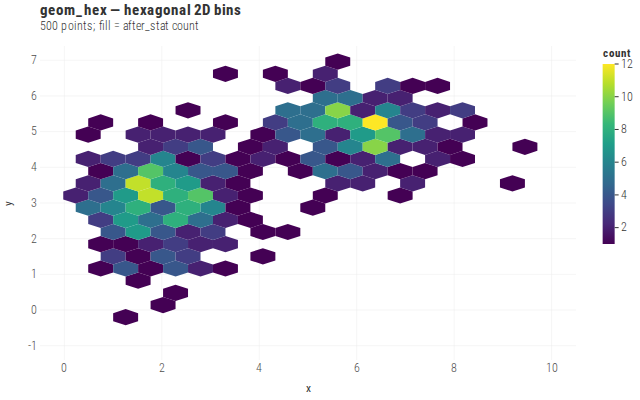
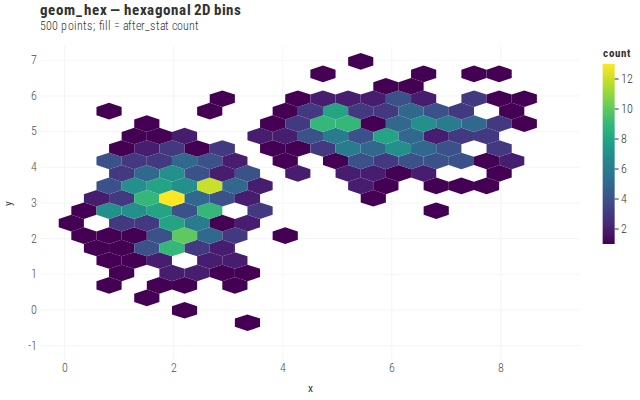
fix(geom): hex hover rows, after_stat outline color, CI gates
Attach closedFrameRows so tooltips resolve the hovered hex cell; resolve
color after_stat columns like fill; use mulberry32 for the example RNG;
teach MockResponder geom_hex (dry-run pass rate); bump gallery count and
recapture hex preview.

diff --git a/packages/core/tests/pipeline-geometry/geom-hex.test.ts b/packages/core/tests/pipeline-geometry/geom-hex.test.ts
@@ -101,6 +101,60 @@ describe("geom_hex geometry (#800)", () => {
     expect(denseN).toBeGreaterThanOrEqual(sparseN);
   });
 
+  it("attaches closedFrameRows so each hex vertex maps to its cell row", () => {
+    const model = runPipeline(
+      gg(
+        {
+          x: [0.1, 0.2, 0.8, 0.9, 0.5],
+          y: [0.1, 0.15, 0.8, 0.9, 0.5],
+        },
+        aes({ x: "x", y: "y" }),
+      )
+        .geomHex({ bins: 6 })
+        .spec(),
+      size,
+    );
+    const batch = model.scene.batches.find((b) => b.kind === "paths");
+    expect(batch?.kind).toBe("paths");
+    expect(batch!.closed).toBe(true);
+    expect(batch!.closedFrameRows).toBeDefined();
+    expect(batch!.closedFrameRows!.length).toBe(batch!.positions.length / 2);
+    const nHex = batch!.pathOffsets.length - 1;
+    expect(nHex).toBeGreaterThan(1);
+    // First vertex of subpath 0 and subpath 1 must resolve to different cells.
+    const row0 = batch!.closedFrameRows![batch!.pathOffsets[0]!]!;
+    const row1 = batch!.closedFrameRows![batch!.pathOffsets[1]!]!;
+    expect(row0).not.toBe(row1);
+    // All six vertices of a hex share that cell's frame row.
+    for (let v = 0; v < 6; v++) {
+      expect(batch!.closedFrameRows![batch!.pathOffsets[0]! + v]).toBe(row0);
+    }
+  });
+
+  it("resolves after_stat color (outline) from count like fill", () => {
+    const model = runPipeline(
+      gg(
+        {
+          x: [0.1, 0.15, 0.8, 0.85, 0.5],
+          y: [0.1, 0.2, 0.75, 0.9, 0.5],
+        },
+        aes({ x: "x", y: "y", color: { stat: "count" }, fill: { stat: "count" } }),
+      )
+        .geomHex({ bins: 5, linewidth: 1 })
+        .spec(),
+      size,
+    );
+    expect(model.warnings.filter((w) => w.code === "stat-channel-unsupported")).toEqual([]);
+    const batch = model.scene.batches.find((b) => b.kind === "paths");
+    expect(batch?.kind).toBe("paths");
+    const nHex = batch!.pathOffsets.length - 1;
+    expect(nHex).toBeGreaterThan(0);
+    expect(batch!.strokes).toBeDefined();
+    expect(batch!.strokes!.length).toBe(nHex);
+    // At least one hex should get a non-null stroke from the count scale.
+    expect(batch!.strokes!.some((s) => s !== null && s !== undefined)).toBe(true);
+  });
+
   it("maps alpha/linewidth to kept subpaths when some hexes drop", () => {
     // Three candidate cells; middle center is non-finite so only rows 0 and 2 emit.
     const frame = fromAny<LayerFrame>({

diff --git a/packages/core/tests/pipeline-after-stat-color.test.ts b/packages/core/tests/pipeline-after-stat-color.test.ts
@@ -1,10 +1,11 @@
 /**
  * after_stat color/fill diagnostics (#915).
  *
- * Only density_2d / density_2d_filled wire an after_stat column into
- * color/fill (`frame-stats-density-2d.ts` — every other frame builds
- * color/fill from the mapped *field* alone). Elsewhere an `{ stat }` colour
- * mapping was accepted and then silently dropped, with no diagnostic.
+ * density_2d / density_2d_filled and bin_hex resolve after_stat colour into
+ * frame color/fill values. Every other frame builds colour from the mapped
+ * *field* alone; an `{ stat }` colour mapping there is accepted only when the
+ * stat publishes the column, then dropped without a painted value — so those
+ * stats emit `stat-channel-unsupported` when the column is not published.
  */
 import { describe, expect, it } from "bun:test";
 import { aes, gg } from "@ggsvelte/spec";
@@ -66,6 +67,16 @@ describe("after_stat color/fill (#915)", () => {
     const model = runPipeline(
       gg(cloud(60), aes({ x: "x", y: "y", color: { stat: "level" } }))
         .geomDensity2d({ n: 20, bins: 4 })
+        .spec(),
+      size,
+    );
+    expect(statChannelWarnings(model.warnings)).toEqual([]);
+  });
+
+  it("stays silent for geom_hex color/fill = after_stat(count)", () => {
+    const model = runPipeline(
+      gg(cloud(40), aes({ x: "x", y: "y", color: { stat: "count" }, fill: { stat: "count" } }))
+        .geomHex({ bins: 8 })
         .spec(),
       size,
     );

diff --git a/tests/evals/model.ts b/tests/evals/model.ts
@@ -626,6 +626,39 @@ export class MockResponder implements Responder {
       const aes: MockAes = { x: f(x), y: f(y), fill: f(fill) };
       spec.layers.push({ geom: "raster", aes });
       xField = x;
+    } else if (
+      // geom_hex / hexagonal bin heatmap — must win over bare "heatmap" → tile (#800).
+      /\bhex(?:agon(?:al)?)?(?:\s+bin)?\b|\bgeom[_\s]?hex\b|\bbin_hex\b/.test(prompt)
+    ) {
+      const x =
+        fieldNamed("distance") ??
+        fieldNamed("humidity") ??
+        fieldNamed("x") ??
+        pick.mentionedQuant() ??
+        pick.quant() ??
+        "x";
+      const y =
+        fieldNamed("delay") ??
+        fieldNamed("temperature") ??
+        fieldNamed("y") ??
+        pick.mentionedQuant() ??
+        pick.quant() ??
+        "y";
+      const aes: MockAes = {
+        x: f(x),
+        y: f(y),
+        fill: { stat: "count" },
+      };
+      const layer: MockLayer = {
+        geom: "hex",
+        stat: "bin_hex",
+        position: "identity",
+        aes,
+      };
+      const binsMatch = prompt.match(/\b(\d+)\s*bins?\b/);
+      if (binsMatch !== null) layer.params = { bins: Number(binsMatch[1]) };
+      spec.layers.push(layer);
+      xField = x;
     } else if (/\b(?:geom )?tiles?\b|heatmap/.test(prompt)) {
       const cats = profile.fields.filter(
         (field) => field.type === "nominal" || field.type === "ordinal",

diff --git a/packages/core/src/pipeline/geometry-hex.ts b/packages/core/src/pipeline/geometry-hex.ts
@@ -44,6 +44,9 @@ export function hexBatch(
   const totalVerts = n * 6;
   const positions = new Float32Array(totalVerts * 2);
   const rowIndex = new Uint32Array(totalVerts);
+  // One frame-row id per vertex so hover/tooltip maps each hex to its cell,
+  // not the ribbon/band reconstruction fallback (same as polygonBatch; #916).
+  const closedFrameRows = new Uint32Array(totalVerts);
   const pathOffsets = new Uint32Array(n + 1);
   const keptRows = new Uint32Array(n);
   const fills: (string | null)[] = [];
@@ -82,6 +85,7 @@ export function hexBatch(
       positions[cursor * 2] = tx * fx.innerWidth;
       positions[cursor * 2 + 1] = fx.innerHeight - ty * fx.innerHeight;
       rowIndex[cursor] = frame.rowIndex[row]!;
+      closedFrameRows[cursor] = row;
       cursor++;
     }
     if (!ok) {
@@ -127,6 +131,7 @@ export function hexBatch(
     strokes,
     fills,
     closed: true,
+    closedFrameRows: closedFrameRows.subarray(0, cursor).slice(),
     linewidth:
       typeof binding.linewidth?.constant === "number"
         ? binding.linewidth.constant

diff --git a/packages/core/src/pipeline/frame-stats-bin-hex.ts b/packages/core/src/pipeline/frame-stats-bin-hex.ts
@@ -59,6 +59,17 @@ export function buildBinHexFrame(
     fillValues = Array.from(series, (v) => v as CellValue);
   }
 
+  // Outline colour: resolve after_stat the same way as fill (bin_hex publishes
+  // count/density/… in STAT_COLOR_COLUMNS; field-only would drop color: {stat}).
+  let colorValues: readonly CellValue[] | null = null;
+  const colorStat = binding.color.statColumn ?? null;
+  if (colorStat === null) {
+    colorValues = col(binding.color.field);
+  } else {
+    const series = columns[colorStat] ?? result.count;
+    colorValues = Array.from(series, (v) => v as CellValue);
+  }
+
   return {
     binding,
     table,
@@ -71,7 +82,7 @@ export function buildBinHexFrame(
     inputGroups: groups,
     inputSourceRows: null,
     rowIndex: Uint32Array.from({ length: result.x.length }, () => NO_ROW),
-    colorValues: col(binding.color.field),
+    colorValues,
     fillValues,
     ...styleColumns(binding, col, columns),
     labelValues: col(binding.labelField),

diff --git a/packages/core/src/pipeline/bind-layer-stat-columns.ts b/packages/core/src/pipeline/bind-layer-stat-columns.ts
@@ -23,11 +23,11 @@ export const STAT_Y_COLUMNS: Record<string, readonly string[]> = {
 };
 
 /**
- * color/fill `{ stat }` columns each stat exposes. Only the density_2d frame
- * builder resolves an after_stat column into colour values
- * (`frame-stats-density-2d.ts`); every other frame builds colour from the
- * mapped field alone, so an `{ stat }` mapping there is dropped (#915).
- * Stats absent from this map publish nothing for colour.
+ * color/fill `{ stat }` columns each stat exposes. Frame builders that resolve
+ * after_stat colour: density_2d / density_2d_filled (`frame-stats-density-2d.ts`)
+ * and bin_hex (`frame-stats-bin-hex.ts` fill + color). Every other frame builds
+ * colour from the mapped field alone, so an `{ stat }` mapping there is dropped
+ * (#915). Stats absent from this map publish nothing for colour.
  */
 export const STAT_COLOR_COLUMNS: Record<string, readonly string[]> = {
   density_2d: ["level", "density"],

diff --git a/tests/visual/docs-home-gallery.spec.ts b/tests/visual/docs-home-gallery.spec.ts
@@ -226,7 +226,7 @@ test("gallery exposes every generated preview exactly once", async ({ page }) =>
   // One meta.json per example under examples/ (grows when new specimens land).
   // 75 previews − 3 interaction expositions; + point/abline-identity (#790)
   // and step/ecdf (#789).
-  const exampleCount = 72;
+  const exampleCount = 73;
   await expect(page.locator(".example-grid li")).toHaveCount(exampleCount);
   await expect(page.locator('img[src*="/previews/"]')).toHaveCount(exampleCount);
 });

diff --git a/examples/hex/basic/data.ts b/examples/hex/basic/data.ts
@@ -1,11 +1,9 @@
+import { mulberry32 } from "../../rng.js";
+
 /** Two overlapping clouds for a hex heatmap demo. */
 export const cloud: { x: number; y: number }[] = (() => {
   const rows: { x: number; y: number }[] = [];
-  let s = 99;
-  const rnd = () => {
-    s = (s * 1664525 + 1013904223) >>> 0;
-    return s / 0xffffffff;
-  };
+  const rnd = mulberry32(99);
   for (let i = 0; i < 500; i++) {
     const u1 = Math.max(1e-9, rnd());
     const u2 = rnd();
